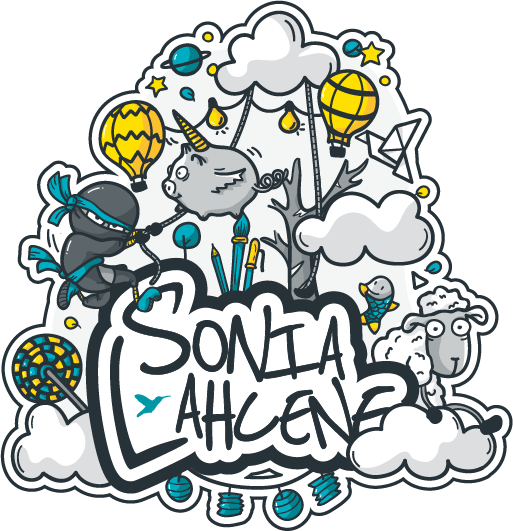
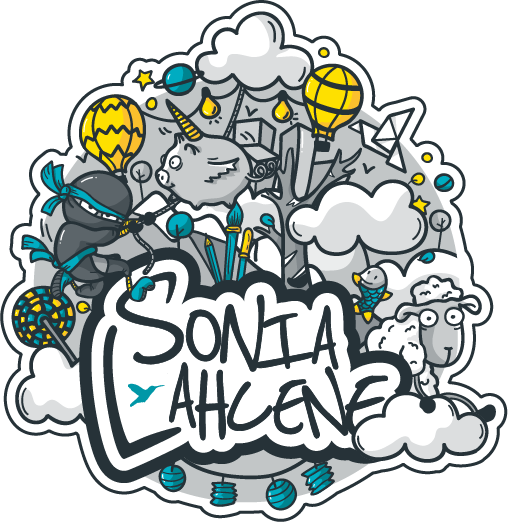
new doodle mobile

diff --git a/css/main.css b/css/main.css
@@ -877,23 +877,6 @@ only screen and (                min-resolution: 2dppx) {
     }
 }
 
-/*
-    ================
-    Mobile Retina
-    ================
-*/
-@media
-only screen and (-webkit-min-device-pixel-ratio: 2) and (max-width: 522px),
-only screen and (   min--moz-device-pixel-ratio: 2) and (max-width: 522px),
-only screen and (     -o-min-device-pixel-ratio: 2/1) and (max-width: 522px),
-only screen and (        min-device-pixel-ratio: 2) and (max-width: 522px),
-only screen and (                min-resolution: 192dpi) and (max-width: 522px),
-only screen and (                min-resolution: 2dppx) and (max-width: 522px) {
-
-    .doodle-image {
-        background-image: url('../assets/mobile_doodle17@2x.png');
-    }
-}
 
 /*
     ================
@@ -913,7 +896,7 @@ only screen and (                min-resolution: 2dppx) and (max-width: 522px) {
     }
 
 /* Menu is on 2 lines */
-@media screen and (max-width: 600px){   
+@media screen and (max-width: 620px){   
 
     .sticky-header {
         display: none;
@@ -928,7 +911,6 @@ only screen and (                min-resolution: 2dppx) and (max-width: 522px) {
     .doodle-image {
         background-image: url('../assets/mobile_doodle17.png');
         background-position: 50% 25%;
-        background-size: 80%;
     }
 
 
@@ -972,10 +954,6 @@ only screen and (                min-resolution: 2dppx) and (max-width: 522px) {
 
 /* Until 490px stick the contacts details under the icon and title*/
 @media screen and (max-width: 490px){
-    .doodle-image {
-        background-position: 50% 25%;
-        background-size: 100%;
-    }
 
     .about {
         margin-right: 1em;
@@ -1052,6 +1030,25 @@ Until 301px, menu is on 3 lines
         top: -80px;
     }
 }
+
+/*
+    ================
+    Mobile Retina
+    ================
+*/
+@media
+only screen and (-webkit-min-device-pixel-ratio: 2) and (max-width: 620px),
+only screen and (   min--moz-device-pixel-ratio: 2) and (max-width: 620px),
+only screen and (     -o-min-device-pixel-ratio: 2/1) and (max-width: 620px),
+only screen and (        min-device-pixel-ratio: 2) and (max-width: 620px),
+only screen and (                min-resolution: 192dpi) and (max-width: 620px),
+only screen and (                min-resolution: 2dppx) and (max-width: 620px) {
+
+    .doodle-image {
+        background-image: url('../assets/mobile_doodle17@2x.png');
+    }
+}
+
 
 /*
     Fix vh support on iOS7
